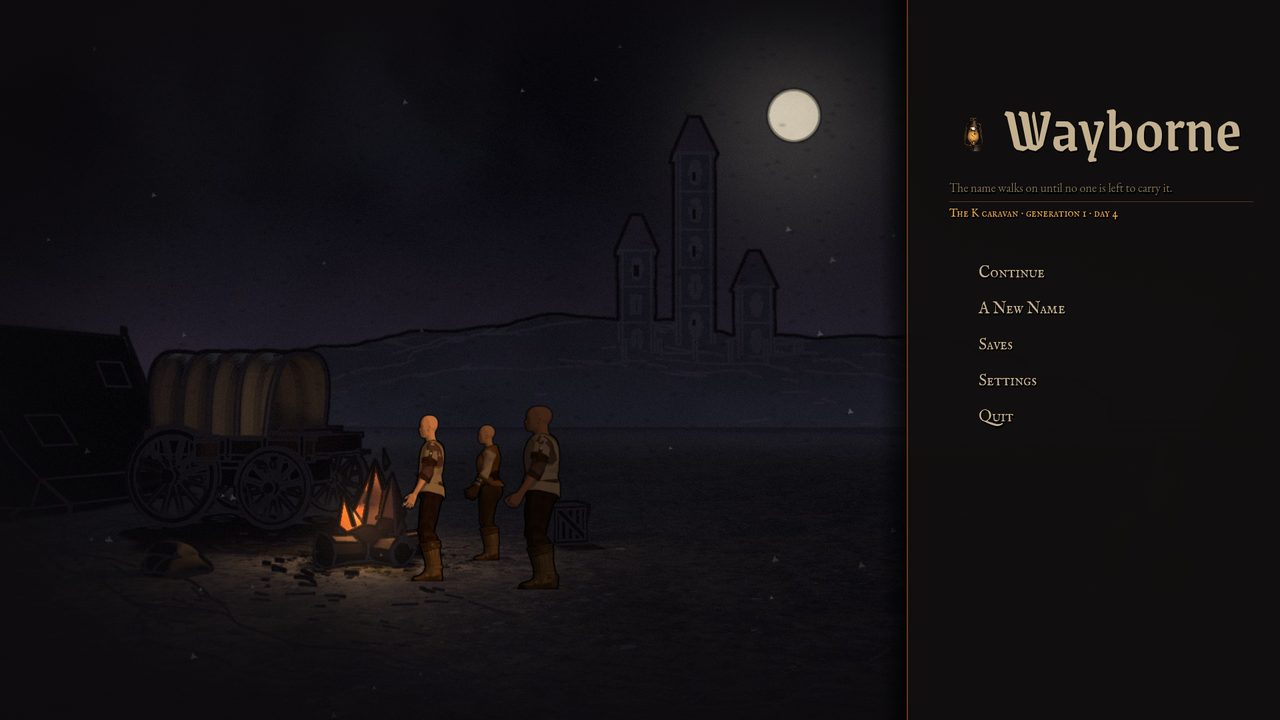
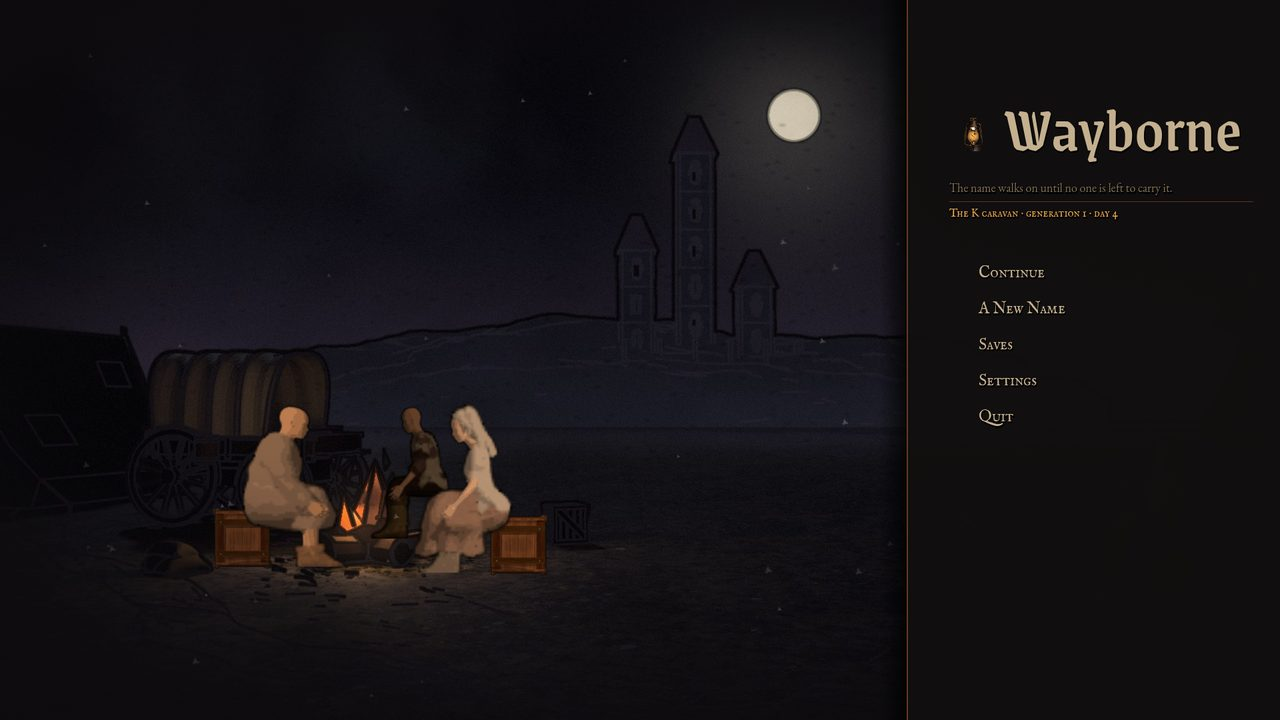
Ana menu: yolcular taslaktaki gibi sandik ustunde oturuyor (sit_box); kapi karsilama ekran goruntusu araci; test turunda 12.2a sehirlerin kendi kapilariyla

Changed region(s): [[0.1562, 0.55, 0.4375, 0.825]]

diff --git a/proje_takibi/TEST_TURU.html b/proje_takibi/TEST_TURU.html
@@ -108,7 +108,7 @@
 <label class="m"><input type="checkbox" id="c-Y-D01"><span class="k"><b>Y-D01</b> Kader Modu (ironman) ve açık zorluk ayarları</span><span class="r"><i>Nereye</i> Ana menü → Yeni Soy. Açılan ekranda zorluk bölümüne bak.</span><span class="r"><i>Görmeli</i> Kader Modu seçeneği ve üç açık ayar (ölümcül vuruş direnci, açlık hasarı, olay sertliği) yazıyla görünür; Standart seçiliyken eskisi gibi oynanır. Kader Modunda oyun içi menüde elle kayıt kapalı ve nedeni yazıyor.</span><span class="r b"><i>Bozuksa</i> Gizli bir zorluk ya da nedensiz kilitli düğme</span><span class="r nv"><i>Durum</i> Bu ortamda görüntülenemedi; gözle bakılması gerekir.</span></label>
 <label class="m"><input type="checkbox" id="c-Y-D03"><span class="k"><b>Y-D03</b> Soy mirası: kervan bitince ne kalır</span><span class="r"><i>Nereye</i> Bir oyunu bitir (ya da DevPanel F1 ile soyu bitir) → yeni oyun.</span><span class="r"><i>Görmeli</i> Önceki soyun mezarları yola/haritaya soluk döner, itibarın bir payı gelir, deftere eski soyun adı yazılır. `user://lineage_archive.json` oluşur.</span><span class="r b"><i>Bozuksa</i> Mezarlar hiç görünmüyor ya da itibar sıfırlanmıyor</span><span class="r nv"><i>Durum</i> Bu ortamda görüntülenemedi; gözle bakılması gerekir.</span></label>
 <label class="m"><input type="checkbox" id="c-9.2"><span class="k"><b>9.2</b> Ana menü gece kampı, katmanlı</span><span class="r"><i>Nereye</i> Oyunu aç; ana menüde bir tuşa bas.</span><span class="r"><i>Görmeli</i> Gece kampı: ay, uzak şehir, vagon, ateş; sağda koyu şerit ve menü.</span><span class="r b"><i>Bozuksa</i> Arka plan boş ya da şerit üst üste biniyorsa not al.</span><figure class="im"><img loading="lazy" src="test_turu_gorseller/menu_baslik.jpg" alt="Başlık evresi"><figcaption>Başlık evresi</figcaption></figure><figure class="im"><img loading="lazy" src="test_turu_gorseller/menu_ana.jpg" alt="Menü açık"><figcaption>Menü açık</figcaption></figure><span class="r ok"><i>Ben baktım</i> Gece kampı katmanları çiziliyor (ay, uzak şehir, vagon, kütük ateşi, sandık); sağ şerit menü ve soy satırıyla düzgün, yazılar okunuyor.</span><span class="r ze"><i>Size kalan</i> Gökyüzü ve zemin çok karanlık mı, yoksa kasvet tam yerinde mi?</span></label>
-<label class="m"><input type="checkbox" id="c-Y-G16"><span class="k"><b>Y-G16</b> Ana menü: kamp ateşi ve üç yorgun yolcu</span><span class="r"><i>Nereye</i> Aynı ana menü ekranı.</span><span class="r"><i>Görmeli</i> Ateşin başında üç yorgun yolcu, ateşe dönük; ateşe yakın olan daha sıcak ışıkta.</span><span class="r b"><i>Bozuksa</i> Yolcular havada ya da ateşten uzak duruyorsa not al.</span><figure class="im"><img loading="lazy" src="test_turu_gorseller/menu_ana.jpg" alt="Ateşin başındaki üç yolcu"><figcaption>Ateşin başındaki üç yolcu</figcaption></figure><span class="r ok"><i>Ben baktım</i> Üç figür ateşe dönük, ayakları yere basıyor; ateşe en yakın olan sıcak, uzaktakiler daha koyu. Hepsi yeni mankenler (farklı boy, kilo, ten).</span><span class="r ze"><i>Size kalan</i> Yolcular yan yana dizilmiş gibi duruyor ve saçsız: daha dağınık, çömelmiş ya da oturur pozlar istiyor musunuz?</span></label>
+<label class="m"><input type="checkbox" id="c-Y-G16"><span class="k"><b>Y-G16</b> Ana menü: kamp ateşi ve üç yorgun yolcu</span><span class="r"><i>Nereye</i> Aynı ana menü ekranı.</span><span class="r"><i>Görmeli</i> Ateşin başında üç yorgun yolcu, ateşe dönük; ateşe yakın olan daha sıcak ışıkta.</span><span class="r b"><i>Bozuksa</i> Yolcular havada ya da ateşten uzak duruyorsa not al.</span><figure class="im"><img loading="lazy" src="test_turu_gorseller/menu_ana.jpg" alt="Ateşin başındaki üç yolcu"><figcaption>Ateşin başındaki üç yolcu</figcaption></figure><span class="r ok"><i>Ben baktım</i> Üç yolcu birer sandığın üstünde oturuyor (taslaktaki kompozisyon: ikisi ateşe yan dönük, biri ateşin ardında), kalçaları sandık kapağında, ayakları yerde. Taslağa göre figürler daha pikselli/yumuşak görünüyor ve giysi ayrıntısı az.</span><span class="r ze"><i>Size kalan</i> Figürlerin keskinliği ve ışığı taslaktaki kadar iyi mi, yoksa ateş ışığını güçlendirelim mi?</span></label>
 <label class="m"><input type="checkbox" id="c-Y-H07"><span class="k"><b>Y-H07</b> Erişilebilirlik ve oynanış ayarları</span><span class="r"><i>Nereye</i> Ana menü → Ayarlar; sonra yol ve savaşta etkisine bak.</span><span class="r"><i>Görmeli</i> Metin boyutu dört kademe (menüler büyür/küçülür, taşma yok); desenli şerit açıkken savaştaki kan şeridi parçalı çiziliyor; otomatik duraklatma açıkken yol işareti/karşılaşma işaretinde zaman bir tuş ya da tıklamaya kadar duruyor. Hızlandırma seçeneği yok. Ayarlar kayıt dosyasında değil `settings.cfg`&#x27;de.</span><span class="r b"><i>Bozuksa</i> Büyük metinde taşan düğme ya da duraklatma kapalıyken zamanın durması</span><figure class="im"><img loading="lazy" src="test_turu_gorseller/ayarlar.jpg" alt="Ayarlar ekranı"><figcaption>Ayarlar ekranı</figcaption></figure><span class="r ok"><i>Ben baktım</i> Yazı boyutu, renk körlüğü (desenli şerit) ve &#x27;yolda bir şey belirince duraklat&#x27; anahtarları var, hizalı, taşma yok. Müzik kaydırıcısı bilerek duruyor (şarkılar sonra eklenecek).</span></label>
 <label class="m"><input type="checkbox" id="c-Y-A01"><span class="k"><b>Y-A01</b> Oyun vaadini yaz ve belgelere işle</span><span class="r"><i>Nereye</i> Doküman kontrolü: `CLAUDE.md` en üstü.</span><span class="r"><i>Görmeli</i> Vaat cümlesi ve dört sütun yazılı. Cümle sizin sesinizle uyuşuyor mu? Uyuşmuyorsa değiştirin (kutu &#x27;öneri, onay bekliyor&#x27; diyor).</span><span class="r b"><i>Bozuksa</i> Cümle size yabancı geliyor</span><span class="r nv"><i>Durum</i> Bu ortamda görüntülenemedi; gözle bakılması gerekir.</span></label>
 </section>
@@ -117,7 +117,7 @@
 <label class="m"><input type="checkbox" id="c-N33"><span class="k"><b>N33</b> Yerleşim menülerinin gün evresi varyantları: sabah, gündüz, akşam, gece</span><span class="r"><i>Nereye</i> Pazar, lonca, taverna, han, kilise ekranlarını sırayla aç (saat değiştirerek).</span><span class="r"><i>Görmeli</i> Her mekânın arka planı günün evresine uyuyor; geçişte kesilme/titreme yok.</span><span class="r b"><i>Bozuksa</i> Bir mekân hep aynı evrede kalıyor</span><span class="r nv"><i>Durum</i> Bu ortamda görüntülenemedi; gözle bakılması gerekir.</span></label>
 <label class="m"><input type="checkbox" id="c-9.4"><span class="k"><b>9.4</b> Mekân ekranları</span><span class="r"><i>Nereye</i> Şehirden sırayla: Pazar, Lonca, Taverna, Han, Kilise, Terzi, Kıyafet Dolabı.</span><span class="r"><i>Görmeli</i> Hepsi aynı görsel dilde (koyu masa, ince çizgili paneller); metin okunur; geri düğmesi her zaman görünür.</span><span class="r b"><i>Bozuksa</i> Gri/kutu ekran, taşan yazı, ulaşılamayan geri düğmesi</span><figure class="im"><img loading="lazy" src="test_turu_gorseller/sehir.jpg" alt="Şehir: sol dört mekân düğmesi, sağda brifing, altta şerit"><figcaption>Şehir: sol dört mekân düğmesi, sağda brifing, altta şerit</figcaption></figure><figure class="im"><img loading="lazy" src="test_turu_gorseller/pazar.jpg" alt="Pazar (terazi)"><figcaption>Pazar (terazi)</figcaption></figure><figure class="im"><img loading="lazy" src="test_turu_gorseller/taverna.jpg" alt="Taverna"><figcaption>Taverna</figcaption></figure><figure class="im"><img loading="lazy" src="test_turu_gorseller/kilise.jpg" alt="Kilise"><figcaption>Kilise</figcaption></figure><figure class="im"><img loading="lazy" src="test_turu_gorseller/dolap.jpg" alt="Kıyafet Dolabı + terzi tezgâhı"><figcaption>Kıyafet Dolabı + terzi tezgâhı</figcaption></figure><span class="r ok"><i>Ben baktım</i> Mekânlar açılıyor, her biri kendi sahnesiyle; yazılar sığıyor, düğmeler görünür. Kıyafet dolabında kilitli satın alma &#x27;altın yetmiyor&#x27; nedeniyle soluk ve gerekçeli. Not: şehirde şu an tavernada &#x27;Han&#x27; düğmesi yok (bu yerleşim türünde yok).</span><span class="r ze"><i>Size kalan</i> Taverna kalabalığı hâlâ düz gri-bej gölgeler; kasvetli bir han için yeterince canlı mı, yoksa figürleri çeşitlendirelim mi?</span></label>
 <label class="m"><input type="checkbox" id="c-9.12"><span class="k"><b>9.12</b> Kilise ve mezarlık arka planı</span><span class="r"><i>Nereye</i> Kilise → mezarlık bölümü; ölüm olmuşsa &#x27;nöbet&#x27; hâli.</span><span class="r"><i>Görmeli</i> Mezarlık arka planı iki hâlde (sakin / nöbet) görünüyor.</span><span class="r b"><i>Bozuksa</i> Arka plan boş ya da yanlış hâl</span><figure class="im"><img loading="lazy" src="test_turu_gorseller/kilise.jpg" alt="Kilise ve mezarlık"><figcaption>Kilise ve mezarlık</figcaption></figure><span class="r ok"><i>Ben baktım</i> Mezarlık sahnesi çiziliyor, mezar taşları ve ay görünüyor, metin okunuyor. &#x27;Nöbet&#x27; hâli bu görüntüde yok (ölüm gerektirir).</span><span class="r ze"><i>Size kalan</i> Soldaki ay diski metin sütununa yakın duruyor; kompozisyonu rahatsız ediyor mu?</span></label>
-<label class="m"><input type="checkbox" id="c-12.2a"><span class="k"><b>12.2a</b> Şehir kapısı görünümü çok kötü (&quot;rezalet&quot;), baştan tasarlanmalı</span><span class="r"><i>Nereye</i> Şehir kapısı: yola çıkarken ve şehre varırken kapıyı izle.</span><span class="r"><i>Görmeli</i> Kapı sur geçidi olarak çizili (düz renk kutu değil); kanat lider yaklaşınca kalkıyor.</span><span class="r b"><i>Bozuksa</i> Düz dikdörtgen ya da kanat takılıyor</span><figure class="im"><img loading="lazy" src="test_turu_gorseller/kapi.jpg" alt="Şehir kapısı (hub)"><figcaption>Şehir kapısı (hub)</figcaption></figure><span class="r ok"><i>Ben baktım</i> Kapı, kuleler ve duvar çiziliyor; &#x27;Vastrevar Kapısı&#x27; yazısı ve &#x27;tıkla ya da E&#x27; ipucu var. Hata: kapı yazısı lider adının üstüne biniyor (aşağıdaki hata listesinde).</span><span class="r ze"><i>Size kalan</i> Kapının gri bloklu kuleleri yeterince &#x27;kervan yolu&#x27; hissi veriyor mu, yoksa ahşap/taş doku mu istersiniz?</span></label>
+<label class="m"><input type="checkbox" id="c-12.2a"><span class="k"><b>12.2a</b> Şehir kapısı görünümü çok kötü (&quot;rezalet&quot;), baştan tasarlanmalı</span><span class="r"><i>Nereye</i> Şehir kapısı: yola çıkarken ve şehre varırken kapıyı izle.</span><span class="r"><i>Görmeli</i> Kapı sur geçidi olarak çizili (düz renk kutu değil); kanat lider yaklaşınca kalkıyor.</span><span class="r b"><i>Bozuksa</i> Düz dikdörtgen ya da kanat takılıyor</span><figure class="im"><img loading="lazy" src="test_turu_gorseller/kapi_vastrevar_gece.jpg" alt="Vastrevar kapısı, gece (meşaleli)"><figcaption>Vastrevar kapısı, gece (meşaleli)</figcaption></figure><figure class="im"><img loading="lazy" src="test_turu_gorseller/kapi_kirsavel_gunduz.jpg" alt="Kirsavel kapısı, gündüz"><figcaption>Kirsavel kapısı, gündüz</figcaption></figure><figure class="im"><img loading="lazy" src="test_turu_gorseller/kapi_belvanor_gunduz.jpg" alt="Belvanor kapısı, gündüz"><figcaption>Belvanor kapısı, gündüz</figcaption></figure><span class="r ok"><i>Ben baktım</i> Her şehrin kendi kapısı var ve oyuna bağlı (şehre gerçek bir girişte `GateArrival` açılıyor): Vastrevar ve Kirsavel birbirinden farklı, geceyi meşale ve ay, gündüzü gündüz resmi veriyor. Kapının açılıp şehrin belirmesini (solma) ve tıkla-geç davranışını bu araçla çekemedim.</span><span class="r ze"><i>Size kalan</i> Gece kapıları çok karanlık mı? Meşale ışığı kapıyı yeterince gösteriyor mu?</span></label>
 <label class="m"><input type="checkbox" id="c-Y-C16"><span class="k"><b>Y-C16</b> İşe almayı zorlaştır ve kişileştir</span><span class="r"><i>Nereye</i> Taverna/Meydan/Lonca → işe alım panosu (birkaç şehirde).</span><span class="r"><i>Görmeli</i> Pano çoğu zaman 1-2 kişi; her adayın neden geldiği yazıyor; savaş/veba haberinde bir kişi eksik; fiyatlar önceki sürümden pahalı.</span><span class="r b"><i>Bozuksa</i> Pano hep dolu ya da adayın hikâyesi yok</span><span class="r nv"><i>Durum</i> Bu ortamda görüntülenemedi; gözle bakılması gerekir.</span></label>
 <label class="m"><input type="checkbox" id="c-Y-C10"><span class="k"><b>Y-C10</b> Fiyat defteri: bilgi eskir, söylenti yanıltır</span><span class="r"><i>Nereye</i> Pazar: bir şehre ilk varışta ve 20+ gün sonra komşu fiyatlarına bak; taverna&#x27;da sohbet et.</span><span class="r"><i>Görmeli</i> Gördüğün fiyatların yanında &#x27;kaç gün önce&#x27; yazıyor, 20 günden eskiler soluk. Söylenti bazen yalan çıkıyor.</span><span class="r b"><i>Bozuksa</i> Tarihsiz fiyat ya da hep doğru söylenti</span><figure class="im"><img loading="lazy" src="test_turu_gorseller/taverna.jpg" alt="Taverna → Söylentiler sekmesi"><figcaption>Taverna → Söylentiler sekmesi</figcaption></figure><span class="r ok"><i>Ben baktım</i> &#x27;Tehlike: bilinmiyor (etrafa sor)&#x27; satırları ve &#x27;söylenti satılmaz, konuş&#x27; açıklaması görünüyor.</span></label>
 <label class="m"><input type="checkbox" id="c-Y-C11"><span class="k"><b>Y-C11</b> Gizli fiyat katmanlarını görünür kıl</span><span class="r"><i>Nereye</i> Pazar satırının üstüne gel.</span><span class="r"><i>Görmeli</i> Fiyat satırında kısa etiketler (mevsim, arz baskısı, haber vb.), üstüne gelince katman başına bir cümle.</span><span class="r b"><i>Bozuksa</i> Fiyat değişti ama nedeni yazmıyor</span><figure class="im"><img loading="lazy" src="test_turu_gorseller/pazar.jpg" alt="Pazar satırlarında fiyat etiketleri"><figcaption>Pazar satırlarında fiyat etiketleri</figcaption></figure><span class="r ok"><i>Ben baktım</i> Her satırın altında kısa etiketler (Yerleşim · Pahalılık · Mevsim) görünüyor. Üstüne gelince açılan açıklamayı çekemedim.</span></label>

diff --git a/proje_takibi/referans/test_turu_gorsel.py b/proje_takibi/referans/test_turu_gorsel.py
@@ -13,8 +13,9 @@ G = {
     },
     "Y-G16": {
         "img": [("menu_ana.jpg", "Ateşin başındaki üç yolcu")],
-        "ben": "Üç figür ateşe dönük, ayakları yere basıyor; ateşe en yakın olan sıcak, uzaktakiler daha koyu. Hepsi yeni mankenler (farklı boy, kilo, ten).",
-        "estetik": "Yolcular yan yana dizilmiş gibi duruyor ve saçsız: daha dağınık, çömelmiş ya da oturur pozlar istiyor musunuz?",
+        "ben": "Üç yolcu birer sandığın üstünde oturuyor (taslaktaki kompozisyon: ikisi ateşe yan dönük, biri ateşin ardında), kalçaları sandık kapağında, ayakları yerde. "
+               "Taslağa göre figürler daha pikselli/yumuşak görünüyor ve giysi ayrıntısı az.",
+        "estetik": "Figürlerin keskinliği ve ışığı taslaktaki kadar iyi mi, yoksa ateş ışığını güçlendirelim mi?",
     },
     "Y-H07": {
         "img": [("ayarlar.jpg", "Ayarlar ekranı")],
@@ -63,10 +64,12 @@ G = {
         "estetik": "Kart boyutu ve çadır arka planı hoşunuza gidiyor mu?",
     },
     "12.2a": {
-        "img": [("kapi.jpg", "Şehir kapısı (hub)")],
-        "ben": "Kapı, kuleler ve duvar çiziliyor; 'Vastrevar Kapısı' yazısı ve 'tıkla ya da E' ipucu var. "
-               "Hata: kapı yazısı lider adının üstüne biniyor (aşağıdaki hata listesinde).",
-        "estetik": "Kapının gri bloklu kuleleri yeterince 'kervan yolu' hissi veriyor mu, yoksa ahşap/taş doku mu istersiniz?",
+        "img": [("kapi_vastrevar_gece.jpg", "Vastrevar kapısı, gece (meşaleli)"),
+                ("kapi_kirsavel_gunduz.jpg", "Kirsavel kapısı, gündüz"),
+                ("kapi_belvanor_gunduz.jpg", "Belvanor kapısı, gündüz")],
+        "ben": "Her şehrin kendi kapısı var ve oyuna bağlı (şehre gerçek bir girişte `GateArrival` açılıyor): Vastrevar ve Kirsavel birbirinden farklı, "
+               "geceyi meşale ve ay, gündüzü gündüz resmi veriyor. Kapının açılıp şehrin belirmesini (solma) ve tıkla-geç davranışını bu araçla çekemedim.",
+        "estetik": "Gece kapıları çok karanlık mı? Meşale ışığı kapıyı yeterince gösteriyor mu?",
     },
     "12.2e": {
         "img": [("yol.jpg", "Yol, fırtınada şafak"), ("durum.jpg", "Yol, öğleden sonra, Durum sekmesi")],

diff --git a/proje_takibi/TEST_TURU.md b/proje_takibi/TEST_TURU.md
@@ -42,8 +42,8 @@ Bir maddeyi onayladığınızda bana 'X tamam' demeniz yeter; ben kaydı 'bitti'
   - Görmeli: Ateşin başında üç yorgun yolcu, ateşe dönük; ateşe yakın olan daha sıcak ışıkta.
   - Bozuksa: Yolcular havada ya da ateşten uzak duruyorsa not al.
   - ![Ateşin başındaki üç yolcu](test_turu_gorseller/menu_ana.jpg)
-  - **Ben baktım:** Üç figür ateşe dönük, ayakları yere basıyor; ateşe en yakın olan sıcak, uzaktakiler daha koyu. Hepsi yeni mankenler (farklı boy, kilo, ten).
-  - **Size kalan (zevk):** Yolcular yan yana dizilmiş gibi duruyor ve saçsız: daha dağınık, çömelmiş ya da oturur pozlar istiyor musunuz?
+  - **Ben baktım:** Üç yolcu birer sandığın üstünde oturuyor (taslaktaki kompozisyon: ikisi ateşe yan dönük, biri ateşin ardında), kalçaları sandık kapağında, ayakları yerde. Taslağa göre figürler daha pikselli/yumuşak görünüyor ve giysi ayrıntısı az.
+  - **Size kalan (zevk):** Figürlerin keskinliği ve ışığı taslaktaki kadar iyi mi, yoksa ateş ışığını güçlendirelim mi?
 - [ ] **Y-H07** Erişilebilirlik ve oynanış ayarları
   - Nereye: Ana menü → Ayarlar; sonra yol ve savaşta etkisine bak.
   - Görmeli: Metin boyutu dört kademe (menüler büyür/küçülür, taşma yok); desenli şerit açıkken savaştaki kan şeridi parçalı çiziliyor; otomatik duraklatma açıkken yol işareti/karşılaşma işaretinde zaman bir tuş ya da tıklamaya kadar duruyor. Hızlandırma seçeneği yok. Ayarlar kayıt dosyasında değil `settings.cfg`'de.
@@ -90,9 +90,11 @@ Bir maddeyi onayladığınızda bana 'X tamam' demeniz yeter; ben kaydı 'bitti'
   - Nereye: Şehir kapısı: yola çıkarken ve şehre varırken kapıyı izle.
   - Görmeli: Kapı sur geçidi olarak çizili (düz renk kutu değil); kanat lider yaklaşınca kalkıyor.
   - Bozuksa: Düz dikdörtgen ya da kanat takılıyor
-  - ![Şehir kapısı (hub)](test_turu_gorseller/kapi.jpg)
-  - **Ben baktım:** Kapı, kuleler ve duvar çiziliyor; 'Vastrevar Kapısı' yazısı ve 'tıkla ya da E' ipucu var. Hata: kapı yazısı lider adının üstüne biniyor (aşağıdaki hata listesinde).
-  - **Size kalan (zevk):** Kapının gri bloklu kuleleri yeterince 'kervan yolu' hissi veriyor mu, yoksa ahşap/taş doku mu istersiniz?
+  - ![Vastrevar kapısı, gece (meşaleli)](test_turu_gorseller/kapi_vastrevar_gece.jpg)
+  - ![Kirsavel kapısı, gündüz](test_turu_gorseller/kapi_kirsavel_gunduz.jpg)
+  - ![Belvanor kapısı, gündüz](test_turu_gorseller/kapi_belvanor_gunduz.jpg)
+  - **Ben baktım:** Her şehrin kendi kapısı var ve oyuna bağlı (şehre gerçek bir girişte `GateArrival` açılıyor): Vastrevar ve Kirsavel birbirinden farklı, geceyi meşale ve ay, gündüzü gündüz resmi veriyor. Kapının açılıp şehrin belirmesini (solma) ve tıkla-geç davranışını bu araçla çekemedim.
+  - **Size kalan (zevk):** Gece kapıları çok karanlık mı? Meşale ışığı kapıyı yeterince gösteriyor mu?
 - [ ] **Y-C16** İşe almayı zorlaştır ve kişileştir
   - Nereye: Taverna/Meydan/Lonca → işe alım panosu (birkaç şehirde).
   - Görmeli: Pano çoğu zaman 1-2 kişi; her adayın neden geldiği yazıyor; savaş/veba haberinde bir kişi eksik; fiyatlar önceki sürümden pahalı.
